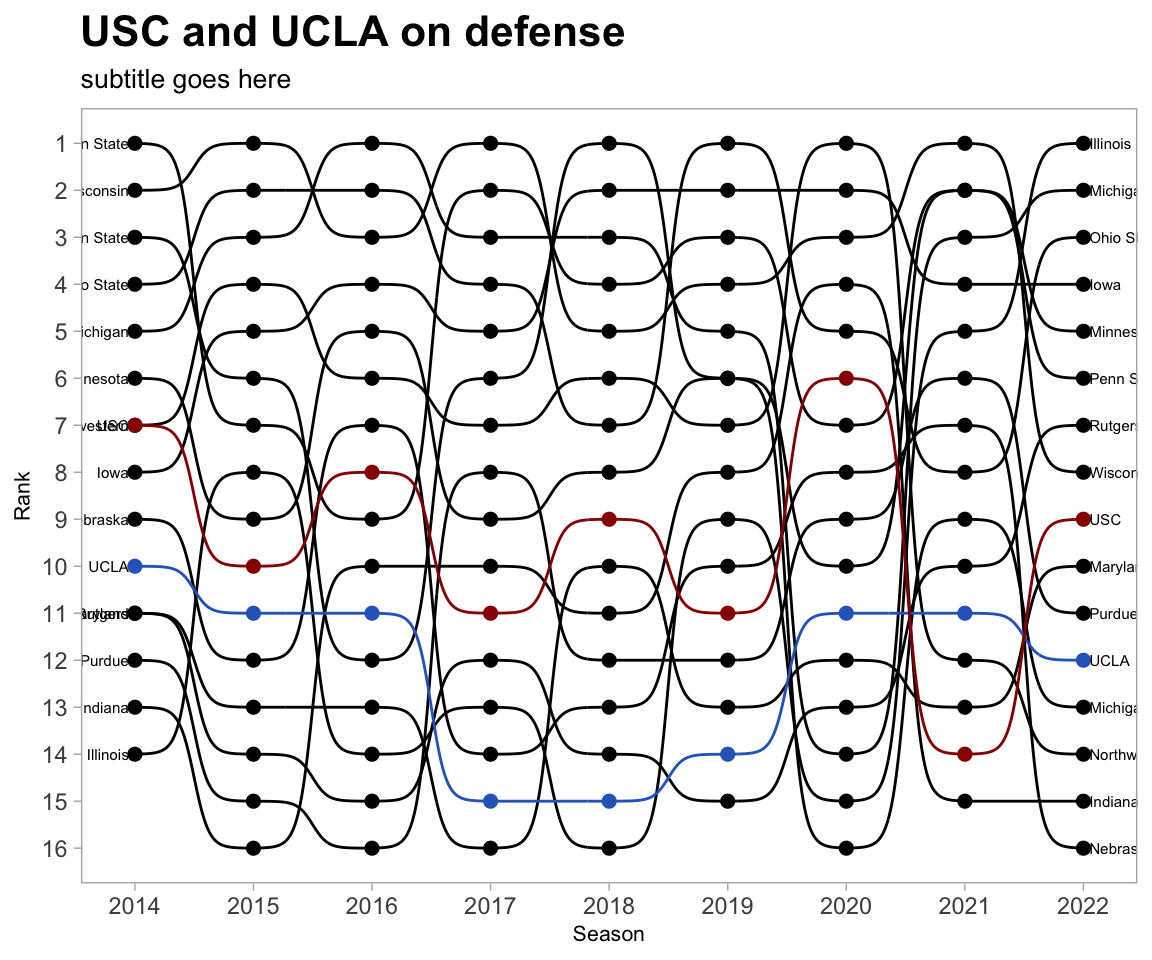
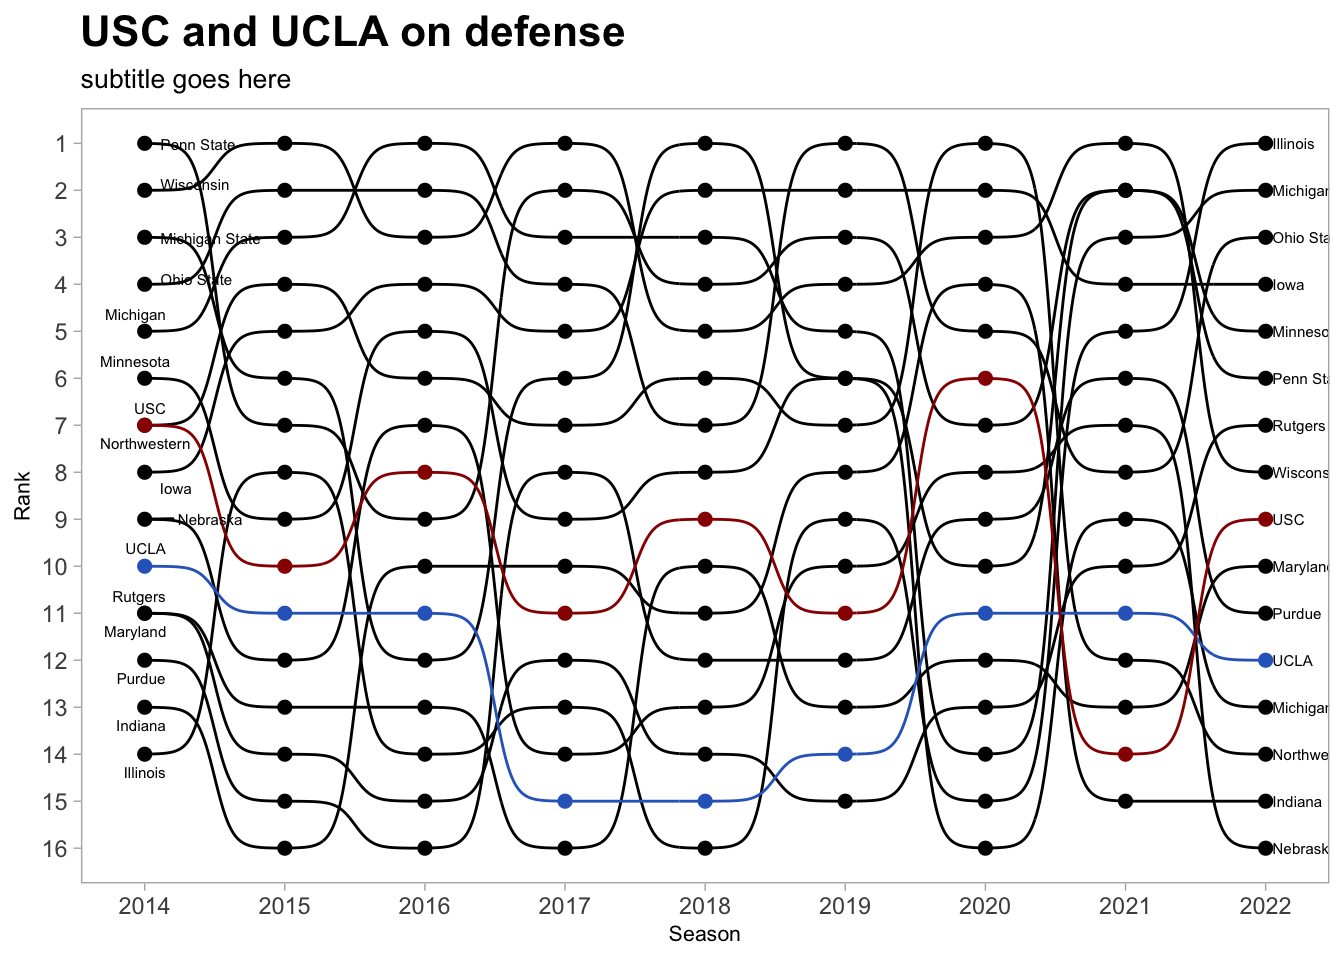
po

diff --git a/posts/ucla-and-usc-meet-big-ten-style-football/index.html b/posts/ucla-and-usc-meet-big-ten-style-football/index.html
@@ -284,7 +284,7 @@ code span.wa { color: #60a0b0; font-weight: bold; font-style: italic; } /* Warni
 <span id="cb1-68"><a href="#cb1-68" aria-hidden="true" tabindex="-1"></a>  <span class="fu">labs</span>(<span class="at">title=</span><span class="st">"UCLA and USC can run with the best of the Big Ten, but will struggle to defend it "</span>, <span class="at">subtitle =</span> <span class="st">"Ohio State, Michigan, Michigan State and Nebraska appear on both lists."</span>,  <span class="at">x=</span><span class="st">""</span>, <span class="at">y=</span><span class="st">"Rush yards per game"</span>, <span class="at">caption =</span> <span class="st">""</span>) <span class="sc">+</span> </span>
 <span id="cb1-69"><a href="#cb1-69" aria-hidden="true" tabindex="-1"></a>  <span class="fu">theme_minimal</span>() <span class="sc">+</span> </span>
 <span id="cb1-70"><a href="#cb1-70" aria-hidden="true" tabindex="-1"></a>  <span class="fu">theme</span>(</span>
-<span id="cb1-71"><a href="#cb1-71" aria-hidden="true" tabindex="-1"></a>    <span class="at">plot.title =</span> <span class="fu">element_text</span>(<span class="at">size =</span> <span class="dv">16</span>, <span class="at">face =</span> <span class="st">"bold"</span>),</span>
+<span id="cb1-71"><a href="#cb1-71" aria-hidden="true" tabindex="-1"></a>     <span class="at">plot.title =</span> <span class="fu">element_text</span>(<span class="at">size =</span> <span class="dv">16</span>, <span class="at">face =</span> <span class="st">"bold"</span>),</span>
 <span id="cb1-72"><a href="#cb1-72" aria-hidden="true" tabindex="-1"></a>    <span class="at">axis.title =</span> <span class="fu">element_text</span>(<span class="at">size =</span> <span class="dv">8</span>), </span>
 <span id="cb1-73"><a href="#cb1-73" aria-hidden="true" tabindex="-1"></a>    <span class="at">plot.subtitle =</span> <span class="fu">element_text</span>(<span class="at">size=</span><span class="dv">10</span>), </span>
 <span id="cb1-74"><a href="#cb1-74" aria-hidden="true" tabindex="-1"></a>    <span class="at">panel.grid.minor =</span> <span class="fu">element_blank</span>(),</span>
@@ -299,17 +299,18 @@ code span.wa { color: #60a0b0; font-weight: bold; font-style: italic; } /* Warni
 <span id="cb1-83"><a href="#cb1-83" aria-hidden="true" tabindex="-1"></a>  <span class="fu">geom_bar</span>(<span class="at">data=</span>uclaDef, <span class="fu">aes</span>(<span class="at">x=</span><span class="fu">reorder</span>(School, OppRushYds), <span class="at">weight=</span>OppRushYds), <span class="at">fill=</span><span class="st">"#2D68C4"</span>) <span class="sc">+</span></span>
 <span id="cb1-84"><a href="#cb1-84" aria-hidden="true" tabindex="-1"></a>  <span class="fu">geom_bar</span>(<span class="at">data=</span>uscDef, <span class="fu">aes</span>(<span class="at">x=</span><span class="fu">reorder</span>(School, OppRushYds), <span class="at">weight=</span>OppRushYds), <span class="at">fill=</span><span class="st">"#990000"</span>) <span class="sc">+</span></span>
 <span id="cb1-85"><a href="#cb1-85" aria-hidden="true" tabindex="-1"></a>  <span class="fu">coord_flip</span>() <span class="sc">+</span>  </span>
-<span id="cb1-86"><a href="#cb1-86" aria-hidden="true" tabindex="-1"></a>  <span class="fu">labs</span>(<span class="at">title =</span> <span class="st">""</span>, <span class="at">subtitle=</span> <span class="st">""</span>, <span class="at">x=</span><span class="st">""</span>, <span class="at">y=</span><span class="st">"Opponent rush yards per game"</span>,  <span class="at">caption=</span><span class="st">"Source: Sports Reference | By Ryan Kenney"</span>) <span class="sc">+</span> </span>
+<span id="cb1-86"><a href="#cb1-86" aria-hidden="true" tabindex="-1"></a>  <span class="fu">labs</span>(<span class="at">title =</span> <span class="st">""</span>, <span class="at">subtitle=</span> <span class="st">"ear on both lists."</span>, <span class="at">x=</span><span class="st">""</span>, <span class="at">y=</span><span class="st">"Opponent rush yards per game"</span>,  <span class="at">caption=</span><span class="st">"Source: Sports Reference | By Ryan Kenney"</span>) <span class="sc">+</span> </span>
 <span id="cb1-87"><a href="#cb1-87" aria-hidden="true" tabindex="-1"></a>  <span class="fu">theme_light</span>() <span class="sc">+</span> </span>
 <span id="cb1-88"><a href="#cb1-88" aria-hidden="true" tabindex="-1"></a>  <span class="fu">theme</span>(</span>
-<span id="cb1-89"><a href="#cb1-89" aria-hidden="true" tabindex="-1"></a>    <span class="at">plot.title =</span> <span class="fu">element_text</span>(<span class="at">size =</span> <span class="dv">16</span>, <span class="at">face =</span> <span class="st">"bold"</span>),</span>
+<span id="cb1-89"><a href="#cb1-89" aria-hidden="true" tabindex="-1"></a>   <span class="at">plot.title =</span> <span class="fu">element_text</span>(<span class="at">size =</span> <span class="dv">16</span>, <span class="at">face =</span> <span class="st">"bold"</span>),</span>
 <span id="cb1-90"><a href="#cb1-90" aria-hidden="true" tabindex="-1"></a>    <span class="at">axis.title =</span> <span class="fu">element_text</span>(<span class="at">size =</span> <span class="dv">8</span>), </span>
 <span id="cb1-91"><a href="#cb1-91" aria-hidden="true" tabindex="-1"></a>    <span class="at">plot.subtitle =</span> <span class="fu">element_text</span>(<span class="at">size=</span><span class="dv">10</span>), </span>
 <span id="cb1-92"><a href="#cb1-92" aria-hidden="true" tabindex="-1"></a>    <span class="at">panel.grid.minor =</span> <span class="fu">element_blank</span>(),</span>
 <span id="cb1-93"><a href="#cb1-93" aria-hidden="true" tabindex="-1"></a>    <span class="at">plot.title.position =</span> <span class="st">"plot"</span></span>
 <span id="cb1-94"><a href="#cb1-94" aria-hidden="true" tabindex="-1"></a>    )</span>
 <span id="cb1-95"><a href="#cb1-95" aria-hidden="true" tabindex="-1"></a></span>
-<span id="cb1-96"><a href="#cb1-96" aria-hidden="true" tabindex="-1"></a><span class="fu">plot_grid</span>(bar1, bar2) </span></code><button title="Copy to Clipboard" class="code-copy-button"><i class="bi"></i></button></pre></div>
+<span id="cb1-96"><a href="#cb1-96" aria-hidden="true" tabindex="-1"></a></span>
+<span id="cb1-97"><a href="#cb1-97" aria-hidden="true" tabindex="-1"></a><span class="fu">plot_grid</span>(bar1, bar2) </span></code><button title="Copy to Clipboard" class="code-copy-button"><i class="bi"></i></button></pre></div>
 </details>
 <div class="cell-output-display">
 <p><img src="index_files/figure-html/unnamed-chunk-1-1.png" class="img-fluid" width="672"></p>
@@ -333,7 +334,7 @@ code span.wa { color: #60a0b0; font-weight: bold; font-style: italic; } /* Warni
 <span id="cb2-10"><a href="#cb2-10" aria-hidden="true" tabindex="-1"></a>  </span>
 <span id="cb2-11"><a href="#cb2-11" aria-hidden="true" tabindex="-1"></a>  <span class="fu">geom_point</span>(<span class="at">data=</span>bigtenrank, <span class="fu">aes</span>(<span class="at">x=</span><span class="fu">as.numeric</span>(Season), <span class="at">y=</span>Rank, <span class="at">color=</span>School), <span class="at">size =</span> <span class="dv">2</span>) <span class="sc">+</span></span>
 <span id="cb2-12"><a href="#cb2-12" aria-hidden="true" tabindex="-1"></a>  </span>
-<span id="cb2-13"><a href="#cb2-13" aria-hidden="true" tabindex="-1"></a>  <span class="fu">geom_text</span>(<span class="at">data =</span> bigtenrank <span class="sc">%&gt;%</span> <span class="fu">filter</span>(<span class="fu">as.numeric</span>(Season) <span class="sc">==</span> <span class="dv">2014</span>), <span class="fu">aes</span>(<span class="at">x =</span> <span class="fu">as.numeric</span>(Season) <span class="sc">-</span> .<span class="dv">05</span>, <span class="at">y=</span>Rank, <span class="at">label =</span> School), <span class="at">size =</span> <span class="dv">2</span>, <span class="at">hjust =</span> <span class="dv">1</span>) <span class="sc">+</span></span>
+<span id="cb2-13"><a href="#cb2-13" aria-hidden="true" tabindex="-1"></a>  <span class="fu">geom_text_repel</span>(<span class="at">data =</span> bigtenrank <span class="sc">%&gt;%</span> <span class="fu">filter</span>(<span class="fu">as.numeric</span>(Season) <span class="sc">==</span> <span class="dv">2014</span>), <span class="fu">aes</span>(<span class="at">x =</span> <span class="fu">as.numeric</span>(Season) <span class="sc">-</span> .<span class="dv">05</span>, <span class="at">y=</span>Rank, <span class="at">label =</span> School), <span class="at">size =</span> <span class="dv">2</span>, <span class="at">hjust =</span> <span class="dv">1</span>) <span class="sc">+</span></span>
 <span id="cb2-14"><a href="#cb2-14" aria-hidden="true" tabindex="-1"></a>  <span class="fu">geom_text</span>(<span class="at">data =</span> bigtenrank <span class="sc">%&gt;%</span> <span class="fu">filter</span>(<span class="fu">as.numeric</span>(Season) <span class="sc">==</span> <span class="dv">2022</span>), <span class="fu">aes</span>(<span class="at">x =</span> <span class="fu">as.numeric</span>(Season) <span class="sc">+</span> .<span class="dv">05</span>, <span class="at">y=</span>Rank, <span class="at">label =</span> School), <span class="at">size =</span> <span class="dv">2</span>, <span class="at">hjust =</span> <span class="dv">0</span>) <span class="sc">+</span></span>
 <span id="cb2-15"><a href="#cb2-15" aria-hidden="true" tabindex="-1"></a>  </span>
 <span id="cb2-16"><a href="#cb2-16" aria-hidden="true" tabindex="-1"></a>  </span>
@@ -356,7 +357,7 @@ code span.wa { color: #60a0b0; font-weight: bold; font-style: italic; } /* Warni
 <span id="cb2-33"><a href="#cb2-33" aria-hidden="true" tabindex="-1"></a>  )</span></code><button title="Copy to Clipboard" class="code-copy-button"><i class="bi"></i></button></pre></div>
 </details>
 <div class="cell-output-display">
-<p><img src="index_files/figure-html/unnamed-chunk-2-1.png" class="img-fluid" width="576"></p>
+<p><img src="index_files/figure-html/unnamed-chunk-2-1.png" class="img-fluid" width="672"></p>
 </div>
 </div>
 <p>Not too great. UCLA</p>
